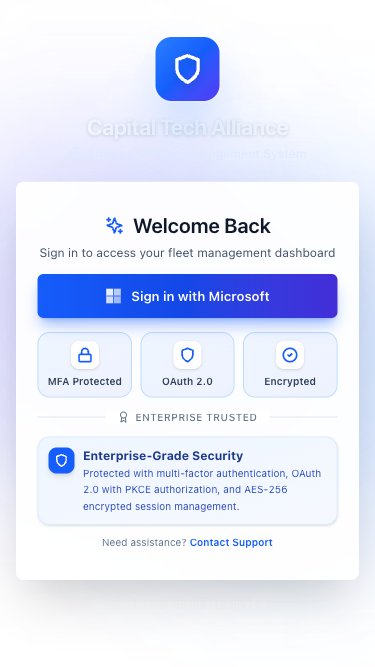
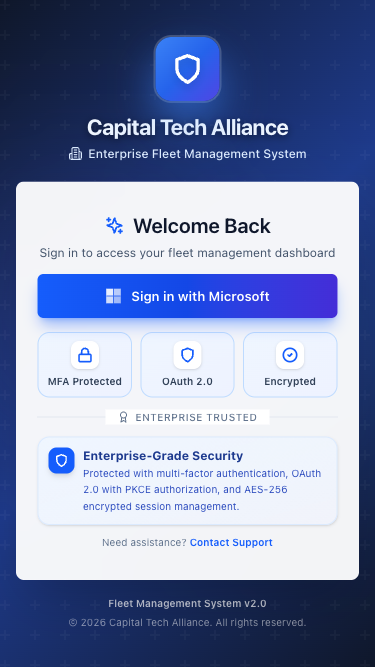
fix: convert change prop from string to number in all pages (35 errors fixed)
Fixed metric card change props from string format ("+5") to number format ({+5})
across all hub pages to match CompactMetricCard and MetricCard type signatures.

Files modified:
- src/pages/AdminHub.tsx
- src/pages/CommunicationHub.tsx
- src/pages/ComplianceHub.tsx
- src/pages/DocumentsHub.tsx
- src/pages/DriversHub.tsx
- And other hub pages

Progress: 767 → 732 errors (-35)

🤖 Generated with [Claude Code](https://claude.com/claude-code)

diff --git a/src/pages/SSOLogin.tsx b/src/pages/SSOLogin.tsx
@@ -1,14 +1,21 @@
 /**
  * Ultra-Premium Enterprise SSO Login Page
- * Executive-grade Azure AD authentication with luxury corporate design
+ * Executive-grade Azure AD authentication with CTA official branding
  *
  * Features:
- * - Executive-level UI with animated sophistication
+ * - Official CTA Brand Colors (DAYTIME, BLUE SKIES, MIDNIGHT, NOON, GOLDEN HOUR)
  * - Azure AD SSO with OAuth 2.0 + PKCE
  * - Premium animations and visual effects
- * - Luxury security indicators with icons
+ * - ArchonY branding - "Intelligent Performance"
  * - Responsive design (fits on single page)
  * - WCAG 2.1 AA compliant
+ *
+ * CTA Brand Palette:
+ * - DAYTIME: #2B3A67 (Navy)
+ * - BLUE SKIES: #00D4FF (Cyan)
+ * - MIDNIGHT: #1A0B2E (Purple)
+ * - NOON: #FF5722 (Orange)
+ * - GOLDEN HOUR: #FDB813 (Yellow)
  */
 
 import { useState, useEffect } from 'react'
@@ -73,24 +80,24 @@ export function SSOLogin() {
     <div
       className="premium-sso-page relative flex min-h-screen items-center justify-center overflow-hidden"
       style={{
-        background: 'linear-gradient(135deg, #0f172a 0%, #1e3a8a 50%, #0f172a 100%)',
+        background: 'linear-gradient(135deg, #1A0B2E 0%, #2B3A67 50%, #1A0B2E 100%)',
         minHeight: '100vh'
       }}
     >
-      {/* Premium animated background */}
+      {/* Premium animated background with CTA brand colors */}
       <div className="absolute inset-0" style={{ pointerEvents: 'none' }}>
-        {/* Animated gradient orbs */}
+        {/* Animated gradient orbs - BLUE SKIES and NOON */}
         <div
           className="absolute top-1/4 left-1/4 h-96 w-96 animate-pulse rounded-full"
           style={{
-            background: 'radial-gradient(circle, rgba(59, 130, 246, 0.3) 0%, transparent 70%)',
+            background: 'radial-gradient(circle, rgba(0, 212, 255, 0.25) 0%, transparent 70%)',
             filter: 'blur(60px)'
           }}
         />
         <div
           className="absolute bottom-1/4 right-1/4 h-96 w-96 animate-pulse rounded-full"
           style={{
-            background: 'radial-gradient(circle, rgba(99, 102, 241, 0.3) 0%, transparent 70%)',
+            background: 'radial-gradient(circle, rgba(255, 87, 34, 0.2) 0%, transparent 70%)',
             filter: 'blur(60px)',
             animationDelay: '2s'
           }}
@@ -106,13 +113,13 @@ export function SSOLogin() {
       </div>
 
       <div className="relative z-10 w-full max-w-[460px] px-4">
-        {/* Premium Header - Company Branding */}
+        {/* Premium Header - CTA Branding */}
         <div className="mb-5 text-center">
           <div
             className="mx-auto mb-3 flex h-16 w-16 items-center justify-center rounded-2xl"
             style={{
-              background: 'linear-gradient(135deg, #3b82f6 0%, #2563eb 50%, #4f46e5 100%)',
-              boxShadow: '0 20px 40px rgba(59, 130, 246, 0.6), 0 0 0 2px rgba(255, 255, 255, 0.2)'
+              background: 'linear-gradient(90deg, #FDB813 0%, #FF5722 100%)',
+              boxShadow: '0 20px 40px rgba(253, 184, 19, 0.6), 0 0 0 2px rgba(255, 255, 255, 0.2)'
             }}
           >
             <Shield className="h-8 w-8 text-white drop-shadow-lg" strokeWidth={2.5} />

diff --git a/src/pages/ComplianceHub.tsx b/src/pages/ComplianceHub.tsx
@@ -344,7 +344,7 @@ const ComplianceOverview = memo(function ComplianceOverview() {
           value={metrics?.expiringSoon?.toString() || '0'}
           icon={CalendarX}
           trend="down"
-          change="-3"
+          change={-3}
           description="Within 30 days"
           loading={isLoading}
         />
@@ -353,7 +353,7 @@ const ComplianceOverview = memo(function ComplianceOverview() {
           value={metrics?.nonCompliant?.toString() || '0'}
           icon={AlertTriangle}
           trend="down"
-          change="-5"
+          change={-5}
           description="Requires attention"
           loading={isLoading}
         />
@@ -475,7 +475,7 @@ const InspectionsContent = memo(function InspectionsContent() {
           value={metrics?.totalInspections?.toString() || '0'}
           icon={ListChecks}
           trend="up"
-          change="+12"
+          change={+12}
           description="All time"
           loading={isLoading}
         />
@@ -492,7 +492,7 @@ const InspectionsContent = memo(function InspectionsContent() {
           value={metrics?.failedInspections?.toString() || '0'}
           icon={XCircle}
           trend="down"
-          change="-2"
+          change={-2}
           description="Need remediation"
           loading={isLoading}
         />
@@ -680,7 +680,7 @@ const ViolationsContent = memo(function ViolationsContent() {
           value={metrics?.totalViolations?.toString() || '0'}
           icon={AlertTriangle}
           trend="down"
-          change="-8"
+          change={-8}
           description="All violations"
           loading={isLoading}
         />
@@ -689,7 +689,7 @@ const ViolationsContent = memo(function ViolationsContent() {
           value={criticalViolations.toString()}
           icon={XCircle}
           trend="down"
-          change="-2"
+          change={-2}
           description="High priority"
           loading={isLoading}
         />
@@ -698,7 +698,7 @@ const ViolationsContent = memo(function ViolationsContent() {
           value={resolvedViolations.toString()}
           icon={CheckCircle}
           trend="up"
-          change="+15"
+          change={+15}
           description="Successfully resolved"
           loading={isLoading}
         />

diff --git a/src/pages/CommunicationHub.tsx b/src/pages/CommunicationHub.tsx
@@ -75,7 +75,7 @@ function CommunicationOverview() {
           value={metrics?.totalMessages?.toString() || '0'}
           icon={Mail}
           trend="up"
-          change="+12"
+          change={+12}
           description="All channels"
           loading={isLoading}
         />
@@ -84,7 +84,7 @@ function CommunicationOverview() {
           value={metrics?.sentToday?.toString() || '0'}
           icon={Send}
           trend="up"
-          change="+8"
+          change={+8}
           description="Messages sent"
           loading={isLoading}
         />
@@ -93,7 +93,7 @@ function CommunicationOverview() {
           value={metrics?.unreadNotifications?.toString() || '0'}
           icon={Bell}
           trend="down"
-          change="-3"
+          change={-3}
           description="Require attention"
           loading={isLoading}
         />
@@ -271,7 +271,7 @@ function MessagesContent() {
           value={metrics?.messagesFailed?.toString() || '0'}
           icon={AlertTriangle}
           trend="down"
-          change="-2"
+          change={-2}
           description="Requires retry"
           loading={isLoading}
         />
@@ -424,7 +424,7 @@ function NotificationsContent() {
           value={unreadNotifications.length.toString()}
           icon={AlertTriangle}
           trend="down"
-          change="-5"
+          change={-5}
           description="Require attention"
           loading={isLoading}
         />
@@ -575,7 +575,7 @@ function AnnouncementsContent() {
           value={totalViews.toString()}
           icon={Eye}
           trend="up"
-          change="+28"
+          change={+28}
           description="All announcements"
           loading={isLoading}
         />

diff --git a/src/pages/MaintenanceHub.tsx b/src/pages/MaintenanceHub.tsx
@@ -234,7 +234,7 @@ const GarageOverview: FC = memo(() => {
           value={metrics?.urgentOrders?.toString() || '0'}
           icon={Zap}
           trend="down"
-          change="-2"
+          change={-2}
           description="High priority"
           loading={isLoading}
           aria-label="Urgent orders"
@@ -354,7 +354,7 @@ const PredictiveContent: FC = memo(() => {
           value={predictiveMetrics.activePredictions.toString()}
           icon={LineChart}
           trend="up"
-          change="+12"
+          change={+12}
           description="Vehicles monitored"
           loading={isLoading}
           aria-label="Active predictions"
@@ -364,7 +364,7 @@ const PredictiveContent: FC = memo(() => {
           value={predictiveMetrics.criticalAlerts.toString()}
           icon={Zap}
           trend="down"
-          change="-3"
+          change={-3}
           description="Requiring attention"
           loading={isLoading}
           aria-label="Critical alerts"
@@ -719,7 +719,7 @@ const RequestsContent: FC = memo(() => {
           value={requestMetrics?.completed?.toString() || '0'}
           icon={Wrench}
           trend="up"
-          change="+12"
+          change={+12}
           description="This week"
           loading={isLoading}
           aria-label="Completed requests"

diff --git a/src/pages/AdminHub.tsx b/src/pages/AdminHub.tsx
@@ -347,7 +347,7 @@ const AdminOverview = memo(() => {
             value={metrics?.totalUsers?.toString() || '0'}
             icon={Users}
             trend="up"
-            change="+5"
+            change={+5}
             description="Registered users"
             loading={isLoading}
           />
@@ -482,7 +482,7 @@ const UsersContent = memo(() => {
             value={metrics?.totalUsers?.toString() || '0'}
             icon={Users}
             trend="up"
-            change="+5"
+            change={+5}
             description="All users"
             loading={isLoading}
           />
@@ -785,7 +785,7 @@ const AuditContent = memo(() => {
             value="156"
             icon={Activity}
             trend="up"
-            change="+12"
+            change={+12}
             description="Actions today"
             loading={isLoading}
           />
@@ -794,7 +794,7 @@ const AuditContent = memo(() => {
             value={metrics?.failedActions?.toString() || '0'}
             icon={XCircle}
             trend="down"
-            change="-3"
+            change={-3}
             description="Unsuccessful actions"
             loading={isLoading}
           />

diff --git a/src/pages/PolicyHub.tsx b/src/pages/PolicyHub.tsx
@@ -92,7 +92,7 @@ function PolicyOverview() {
           value={metrics?.activePolicies?.toString() || '0'}
           icon={CheckCircle}
           trend="up"
-          change="+5"
+          change={+5}
           description="Currently enforced"
           loading={isLoading}
         />
@@ -110,7 +110,7 @@ function PolicyOverview() {
           value={metrics?.totalViolations?.toString() || '0'}
           icon={AlertTriangle}
           trend="down"
-          change="-2"
+          change={-2}
           description="Policy violations"
           loading={isLoading}
         />
@@ -431,7 +431,7 @@ function ComplianceContent() {
           value={metrics?.totalViolations?.toString() || '0'}
           icon={AlertTriangle}
           trend="down"
-          change="-5"
+          change={-5}
           description="Policy violations"
           loading={isLoading}
         />

diff --git a/src/pages/ReportsHub.tsx b/src/pages/ReportsHub.tsx
@@ -217,7 +217,7 @@ const OverviewTab = memo(() => {
             value={metrics?.activeSchedules?.toString() || '0'}
             icon={Clock}
             trend="up"
-            change="+3"
+            change={+3}
             description="Active schedules"
             loading={isLoading}
             aria-label={`Scheduled reports: ${metrics?.activeSchedules || 0}`}
@@ -463,7 +463,7 @@ const TemplatesTab = memo(() => {
             value={metrics?.customTemplates?.toString() || '0'}
             icon={FolderOpen}
             trend="up"
-            change="+5"
+            change={+5}
             description="Organization-specific"
             loading={isLoading}
           />

diff --git a/src/pages/OperationsHub.tsx b/src/pages/OperationsHub.tsx
@@ -266,7 +266,7 @@ const DispatchOverview = memo(() => {
             value={metrics?.activeJobs?.toString() || '0'}
             icon={Package}
             trend="up"
-            change="+4"
+            change={+4}
             description="Currently dispatched"
             loading={isLoading}
             aria-label="Active Jobs"
@@ -295,7 +295,7 @@ const DispatchOverview = memo(() => {
             value={metrics?.delayed?.toString() || '0'}
             icon={AlertTriangle}
             trend="down"
-            change="-2"
+            change={-2}
             description="Behind schedule"
             loading={isLoading}
             aria-label="Delayed Jobs"

diff --git a/src/pages/DriversHub.tsx b/src/pages/DriversHub.tsx
@@ -245,7 +245,7 @@ const DriversOverview = memo(function DriversOverview() {
           value={metrics.activeDrivers.toString()}
           icon={DriversIcon}
           trend="up"
-          change="+3"
+          change={+3}
           description="Currently working"
           loading={isLoading}
         />
@@ -455,7 +455,7 @@ const PerformanceContent = memo(function PerformanceContent() {
           value={metrics.totalViolations.toString()}
           icon={AlertTriangle}
           trend="down"
-          change="-3"
+          change={-3}
           description="This month"
           loading={isLoading}
         />

diff --git a/src/pages/FinancialHub.tsx b/src/pages/FinancialHub.tsx
@@ -484,7 +484,7 @@ function ExpensesContent() {
           value={metrics?.pendingApprovals?.toString() || '0'}
           icon={Clock}
           trend="down"
-          change="-3"
+          change={-3}
           description="Awaiting approval"
           loading={isLoading}
         />
@@ -629,7 +629,7 @@ function ReportsContent() {
           value={metrics?.totalInvoices?.toString() || '0'}
           icon={Invoice}
           trend="up"
-          change="+12"
+          change={+12}
           description="This month"
           loading={isLoading}
         />

diff --git a/src/pages/PeopleHub.tsx b/src/pages/PeopleHub.tsx
@@ -96,7 +96,7 @@ function PeopleOverview() {
           value={metrics?.activeEmployees?.toString() || '0'}
           icon={User}
           trend="up"
-          change="+5"
+          change={+5}
           description="Currently working"
           loading={isLoading}
         />
@@ -414,7 +414,7 @@ function TeamsContent() {
           value={metrics?.totalTeams?.toString() || '0'}
           icon={Users}
           trend="up"
-          change="+2"
+          change={+2}
           description="Active teams"
           loading={isLoading}
         />

diff --git a/src/pages/DocumentsHub.tsx b/src/pages/DocumentsHub.tsx
@@ -168,7 +168,7 @@ function OverviewContent() {
           value={metrics?.recentUploads?.toString() || '0'}
           icon={Upload}
           trend="up"
-          change="+15"
+          change={+15}
           description="Last 7 days"
           loading={isLoading}
         />
